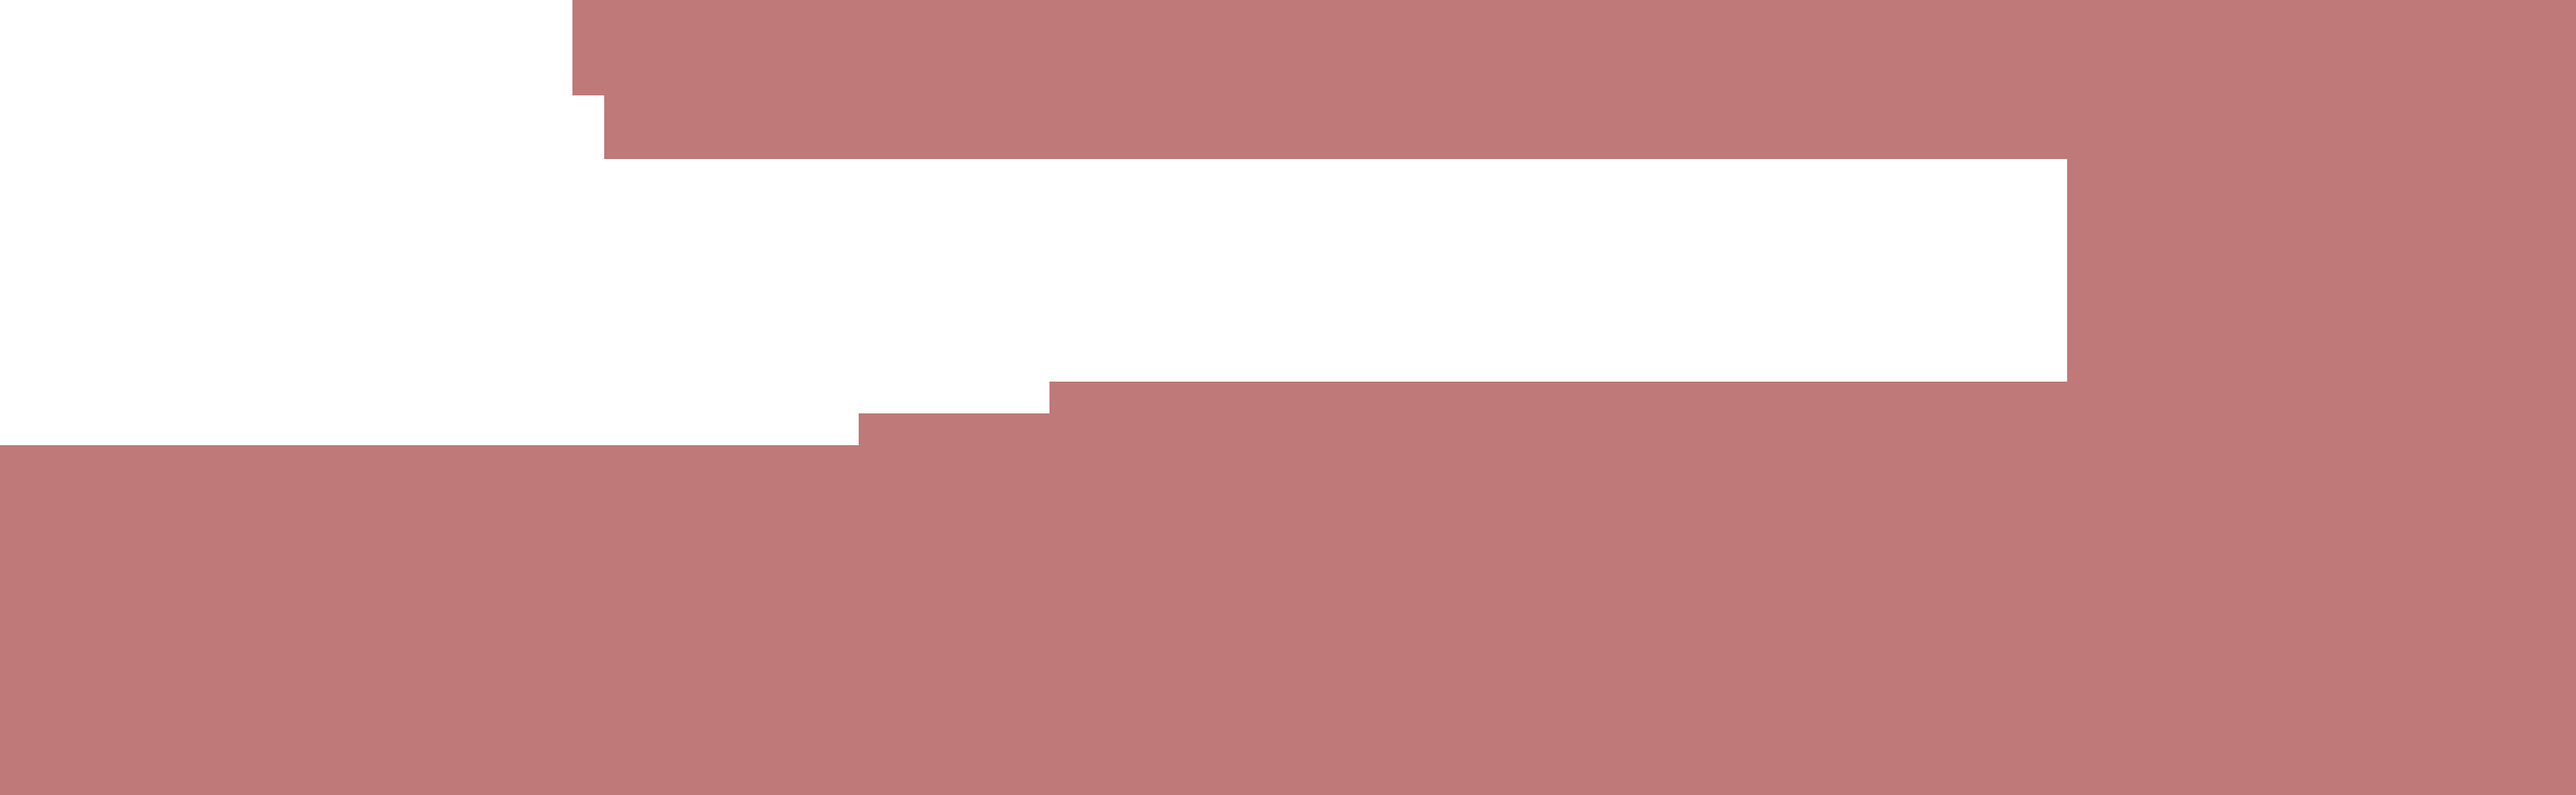
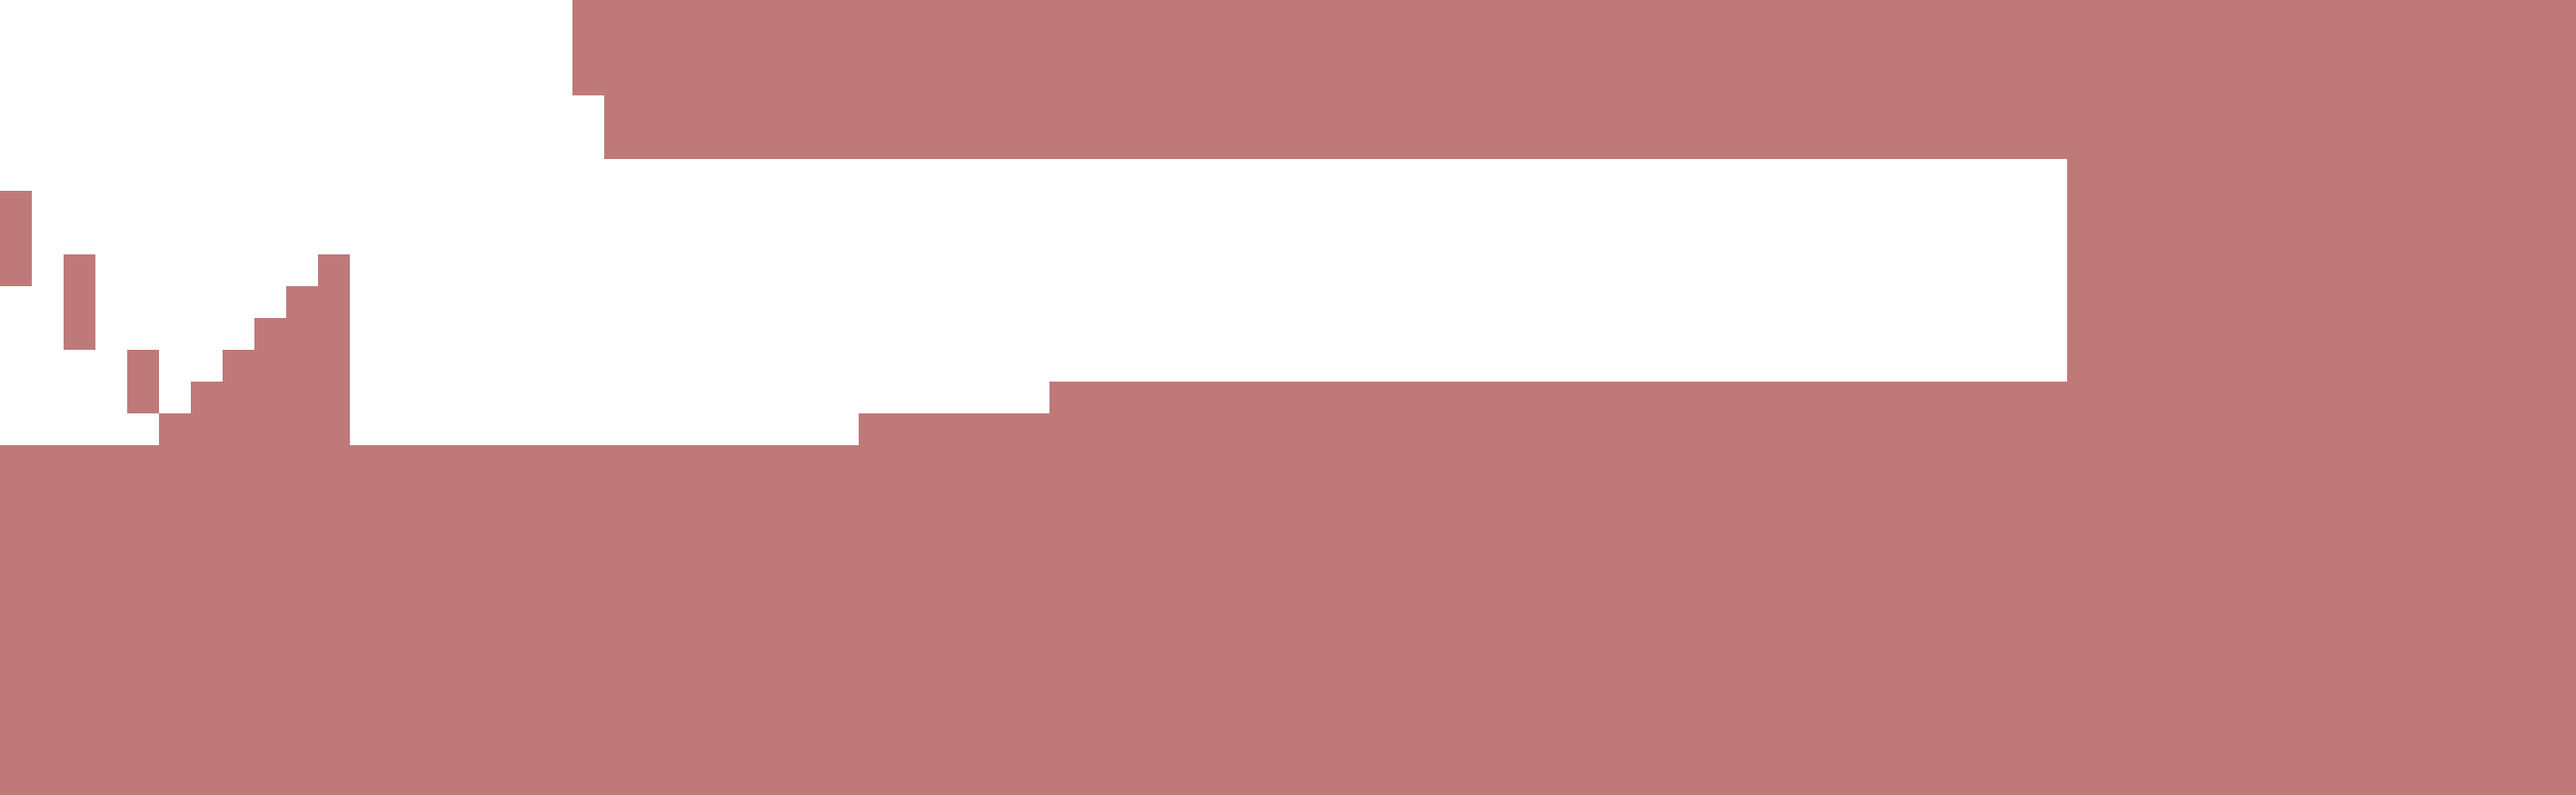
implémentation un peu foireuse de l'entité a revoir (ca marche)

Changed region(s): [[0.0, 0.2188, 0.1562, 0.5625]]

diff --git a/src/game/game.cpp b/src/game/game.cpp
@@ -1,6 +1,7 @@
 #include "game.h"
 #include "../engine/box2d-bbop-link.h"
 #include "entity.h"
+#include "../engine/dynamicSprite.h"
 
 #include <box2d/b2_body.h>
 #include <box2d/box2d.h>
@@ -22,6 +23,8 @@ Game::Game()
     npc.setPosition(map.getSpawnPoints()[1]);
   }
 
+  dynamics.push_back(new DynamicSprite(Texture("assets/default.png"), &physicalWorld));
+  entities.push_back(dynamics[0]);
   //-------------------------------------------------------------------------
   //rajoute le boite de collision au monde physique 
   for(CollisionBox& box : map.getCollision()){
@@ -58,9 +61,8 @@ void Game::update()
 
   //mise a jour des entitées après la mise a jour du monde box2d 
   for(auto &ent : entities){
-    ent.updatePhysic();
+    ent->updatePhysic();
   }
-
   //-----------------------------------------------------------------------------------------------
  }
 
@@ -68,6 +70,9 @@ void Game::Draw()
 {
   map.Draw(scene, mainPlayerCam);
   scene.Draw(mainPlayer);
+  for(auto& d: dynamics){
+    scene.Draw(*d);
+  }
   scene.render();
   
   #ifdef DEBUG 

diff --git a/src/engine/dynamicSprite.cpp b/src/engine/dynamicSprite.cpp
@@ -5,10 +5,16 @@
 DynamicSprite::DynamicSprite(Texture texture, b2World *world)
   :  Sprite(texture)
 {
-  addDynamicBox(world, &getCollisionBox());
+
+  setSize(100,100);
+  setOrigin(getSize().x/2,getSize().y/2);
+  setPosition(10, -200);
+  //une fois ajouter a umonde box2d c'est la galère pour récupérer la taille donc faut faire attention
+  body = addDynamicBox(world, &getCollisionBox());
 }
 
 void DynamicSprite::updatePhysic()
 {
-
+  setPosition(body->GetPosition().x*PIXEL_PER_METER, body->GetPosition().y*PIXEL_PER_METER);
+  setRotation(body->GetAngle());
 }

diff --git a/src/game/game.h b/src/game/game.h
@@ -1,8 +1,9 @@
 #pragma once
 
-#include "../../Bbop-Library/include/BBOP/Graphics.h"
+#include "../../Bbop-2D/include/BBOP/Graphics.h"
 #include "player.h"
 #include "bot.h"
+#include "../engine/dynamicSprite.h"
 #include "entity.h"
 
 #include <GLFW/glfw3.h>
@@ -27,10 +28,11 @@ private:
   Player mainPlayer;
   Map map;
   Bot npc;
+  std::vector<DynamicSprite*> dynamics; // liste des enititées
 
   //gestion physique 
   b2World physicalWorld; 
-  std::vector<Entity> entities;
+  std::vector<Entity*> entities; // liste des enititées
 public:
   Game();
 

diff --git a/src/engine/gameCharacter.h b/src/engine/gameCharacter.h
@@ -3,9 +3,9 @@
 #include <string>
 #include <vector>
 
-#include "../../Bbop-Library/include/BBOP/Graphics.h"
-#include "../../Bbop-Library/include/BBOP/Graphics/bbopMathClass.h"
-#include "../../Bbop-Library/include/BBOP/Graphics/textureClass.h"
+#include "../../Bbop-2D/include/BBOP/Graphics.h"
+#include "../../Bbop-2D/include/BBOP/Graphics/bbopMathClass.h"
+#include "../../Bbop-2D/include/BBOP/Graphics/textureClass.h"
 #include "member.h"
 #include "gun.h"
 

diff --git a/liveMap.cpp b/liveMap.cpp
@@ -6,9 +6,9 @@
 #include <sys/stat.h>
 #include <ctime>
 
-#include "Bbop-Library/include/BBOP/Graphics.h"
-#include "Bbop-Library/include/BBOP/Graphics/cameraClass.h"
-#include "Bbop-Library/include/BBOP/Graphics/mapClass.h"
+#include "Bbop-2D/include/BBOP/Graphics.h"
+#include "Bbop-2D/include/BBOP/Graphics/cameraClass.h"
+#include "Bbop-2D/include/BBOP/Graphics/mapClass.h"
 
 using namespace std;
 

diff --git a/src/game/bot.h b/src/game/bot.h
@@ -1,7 +1,7 @@
 #pragma once
 
-#include "../../Bbop-Library/include/BBOP/Graphics/bbopGlobal.h"
-#include "../../Bbop-Library/include/BBOP/Graphics/cameraClass.h"
+#include "../../Bbop-2D/include/BBOP/Graphics/bbopGlobal.h"
+#include "../../Bbop-2D/include/BBOP/Graphics/cameraClass.h"
 #include "../engine/gameCharacter.h"
 #include "../engine/crossair.h"
 

diff --git a/src/game/player.h b/src/game/player.h
@@ -1,7 +1,7 @@
 #pragma once
 
-#include "../../Bbop-Library/include/BBOP/Graphics/bbopGlobal.h"
-#include "../../Bbop-Library/include/BBOP/Graphics/cameraClass.h"
+#include "../../Bbop-2D/include/BBOP/Graphics/bbopGlobal.h"
+#include "../../Bbop-2D/include/BBOP/Graphics/cameraClass.h"
 #include "../engine/gameCharacter.h"
 #include "../engine/crossair.h"
 

diff --git a/src/game/player.cpp b/src/game/player.cpp
@@ -1,6 +1,6 @@
 #include "player.h"
-#include "../../Bbop-Library/include/BBOP/Graphics/bbopMathClass.h"
-#include "../../Bbop-Library/include/BBOP/Graphics/cameraClass.h"
+#include "../../Bbop-2D/include/BBOP/Graphics/bbopMathClass.h"
+#include "../../Bbop-2D/include/BBOP/Graphics/cameraClass.h"
 #include "game.h"
 #include "../engine/gameCharacter.h"
 

diff --git a/src/engine/member.cpp b/src/engine/member.cpp
@@ -1,6 +1,6 @@
 #include "member.h"
-#include "../../Bbop-Library/include/BBOP/Graphics/bbopMathClass.h"
-#include "../../Bbop-Library/include/BBOP/Graphics/textureClass.h"
+#include "../../Bbop-2D/include/BBOP/Graphics/bbopMathClass.h"
+#include "../../Bbop-2D/include/BBOP/Graphics/textureClass.h"
 
 #include <GLFW/glfw3.h>
 #include <exception>

diff --git a/src/engine/box2d-bbop-link.h b/src/engine/box2d-bbop-link.h
@@ -3,7 +3,7 @@
 // Contient les fonction de lien entre BBOP et box2D 
 
 #include <box2d/box2d.h>
-#include "../../Bbop-Library/include/BBOP/Graphics.h"
+#include "../../Bbop-2D/include/BBOP/Graphics.h"
 
 //Box 2D foncitonne en mètre donc il faut une constante pour savoir combien de pixel vaut un mètre 
 #define PIXEL_PER_METER 32

diff --git a/src/engine/member.h b/src/engine/member.h
@@ -1,7 +1,7 @@
 #pragma once 
 
-#include "../../Bbop-Library/include/BBOP/Graphics/bbopMathClass.h"
-#include "../../Bbop-Library/include/BBOP/Graphics.h"
+#include "../../Bbop-2D/include/BBOP/Graphics/bbopMathClass.h"
+#include "../../Bbop-2D/include/BBOP/Graphics.h"
 
 #include <string>
 

diff --git a/src/game/entity.h b/src/game/entity.h
@@ -1,6 +1,7 @@
 #pragma once 
 
 #include <box2d/b2_body.h>
+#include <box2d/b2_world.h>
 #include <box2d/box2d.h>
 
 /**
@@ -14,6 +15,4 @@ protected:
   b2Body *body; //<! pointeur vers le body Box2d pour l'update
 public:
   virtual void updatePhysic() = 0;
-
-  virtual ~Entity();
 };
